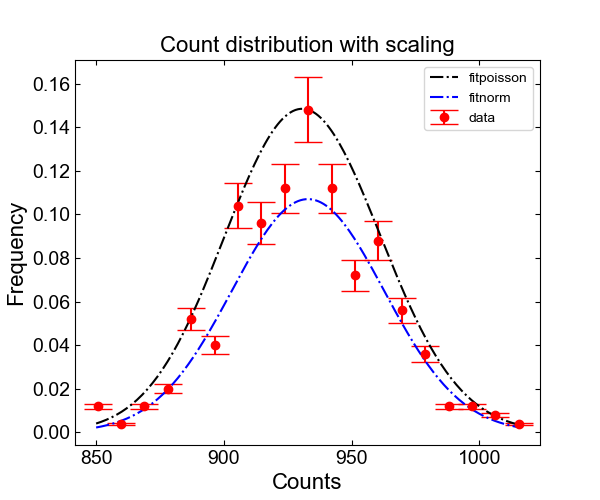
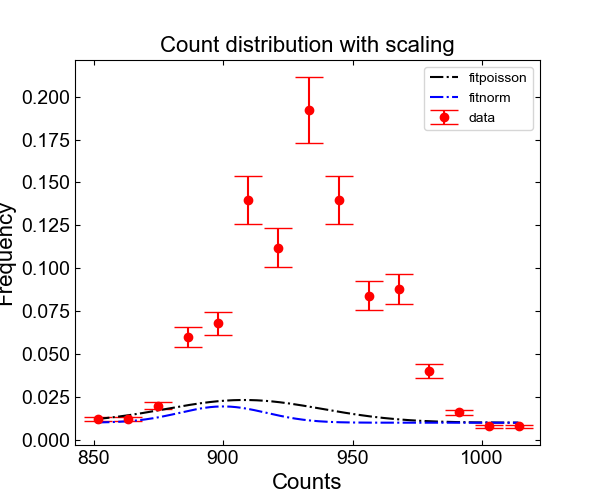
legends rettet

diff --git a/Databehandling.py b/Databehandling.py
@@ -39,7 +39,7 @@ with open('./CSMHUNT_12301_2022-9-7_16-3-44.cvs', 'r') as file:
 
 x= np.array(sorted(data[9][2:]))
 
-x_counts, bin = np.histogram(x, bins=19)
+x_counts, bin = np.histogram(x, bins='auto')
 
 
 
@@ -58,7 +58,7 @@ bin_points = []
 for i in range(len(bin)-1):
   bin_points.append((bin[i]+bin[i+1])/2)
 
-
+print("sum", np.sum(x_frequency), "\n")
 y = x_frequency
 x = bin_points
 
@@ -77,23 +77,24 @@ fig1.set_size_inches(6,5,forward=True)
 
 #ax.plot(x,y, label="poisson(" + str(x_mu) +")")
 
-def funlin(x, a, b):
-  return b*poisson.pmf(x, a)
-
+def funlin(x, a):
+  return poisson.pmf(x, a)+0.01
 
 yler = np.array((y))*0.1
-print(yler)
-pinit1 = [x_mu, 5]
+
+#print(yler)
+pinit1 = [x_mu]
+print("mean: ", x_mu, "\n")
 xhelp1 = np.linspace(int(x[0]),int(x[-1]),int(x[-1])-int(x[0])+1)
 
 print("poisson")
-popt, pcov = curve_fit(funlin, x, y, p0=pinit1, sigma=yler, absolute_sigma=True)
-print('a (hældning):',popt[0])
-print('b: ', popt[1])
+popt, pcov = curve_fit(funlin, x, y, p0=pinit1, sigma=yler, absolute_sigma=True, bounds=[900, 960])
+print('a (mu):',popt[0])
+#print('b: ', popt[1])
 perr = np.sqrt(np.diag(pcov))
 print('usikkerheder:',perr)
 chmin = np.sum(((y-funlin(x, *popt))/yler)**2)
-print('chi2:',chmin,' ---> p:', ss.chi2.cdf(chmin,4))
+print('chi2:',chmin,' ---> p:', ss.chi2.cdf(chmin,4), "\n")
 
 
 mu = x_mu
@@ -101,16 +102,20 @@ variance = x_var
 sigma = math.sqrt(variance)
 
 
-def normfit(x, mu, variance, b):
+def normfit(x, mu, variance):
+  #print(variance)
   sigma = math.sqrt(variance)
-  return b*ss.norm.pdf(x, mu, sigma)
+  #return ss.norm.pdf(x, mu, sigma)
+  return 1/(sigma*2*np.pi)*np.exp(-1/2*((x-mu)/sigma)**2)+0.01
 
-pinit =[mu, variance, 5]
+pinit =[mu, variance]
 
-popt1, pcov1 = curve_fit(normfit, x, y, p0=pinit, sigma=yler, absolute_sigma=True)
+
+popt1, pcov1 = curve_fit(normfit, x, y, p0=pinit, sigma=yler, absolute_sigma=True, bounds = [[900, 0], [960,np.inf]])
+print('normfit')
 print('mu :',popt1[0])
 print('varians :',popt1[1])
-print('b: ', popt1[2])
+#print('b: ', popt1[2])
 perr = np.sqrt(np.diag(pcov1))
 print('usikkerheder:',perr)
 chmin = np.sum(((y-normfit(x, *popt1))/yler)**2)
